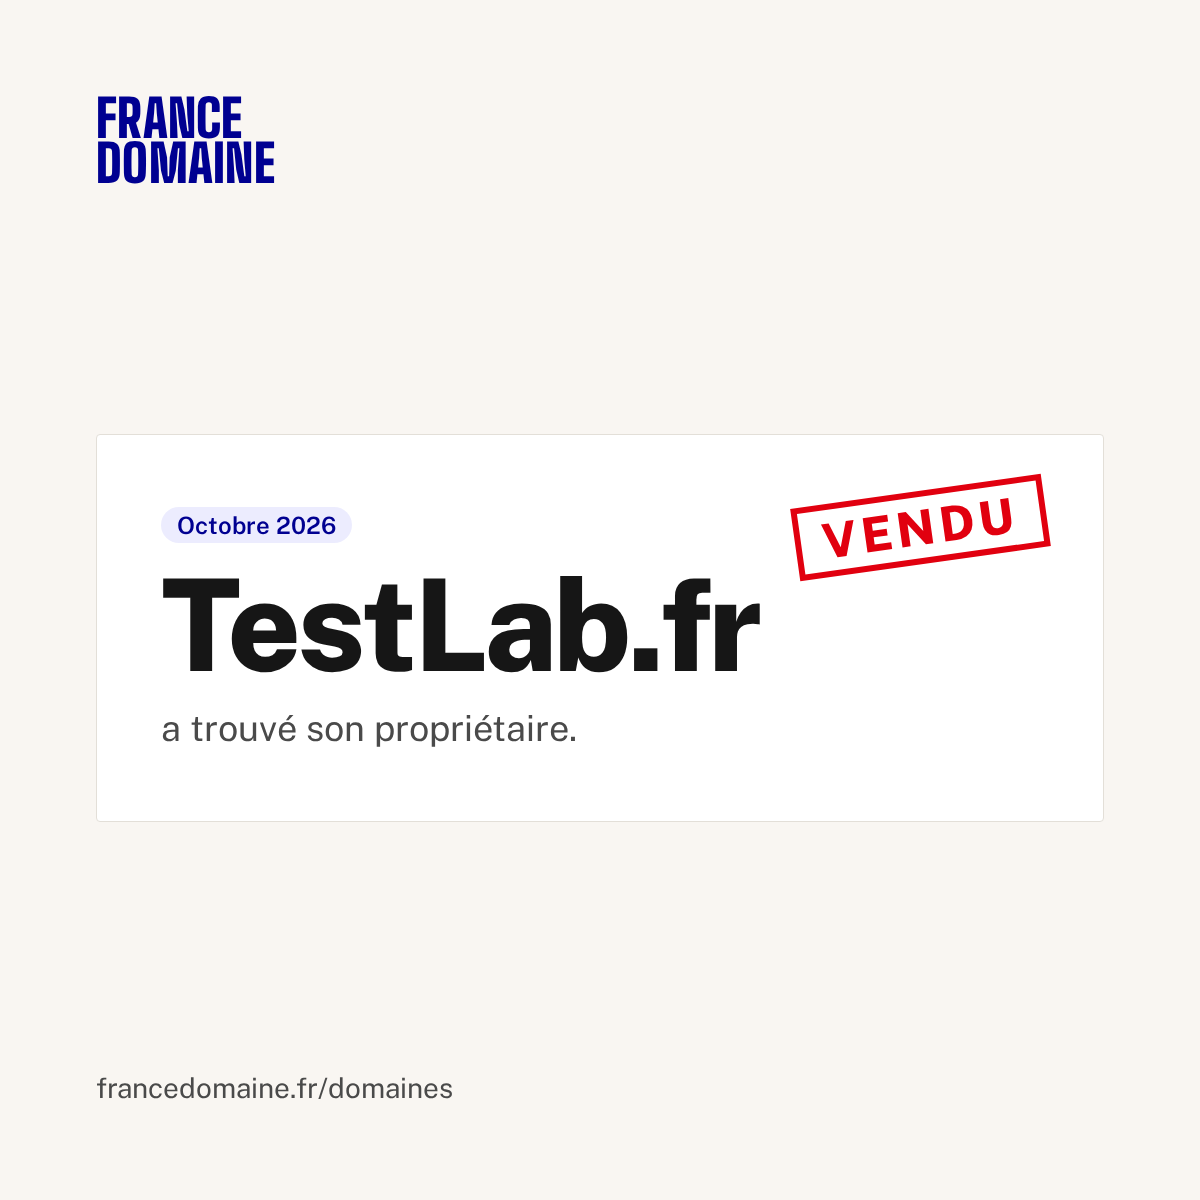
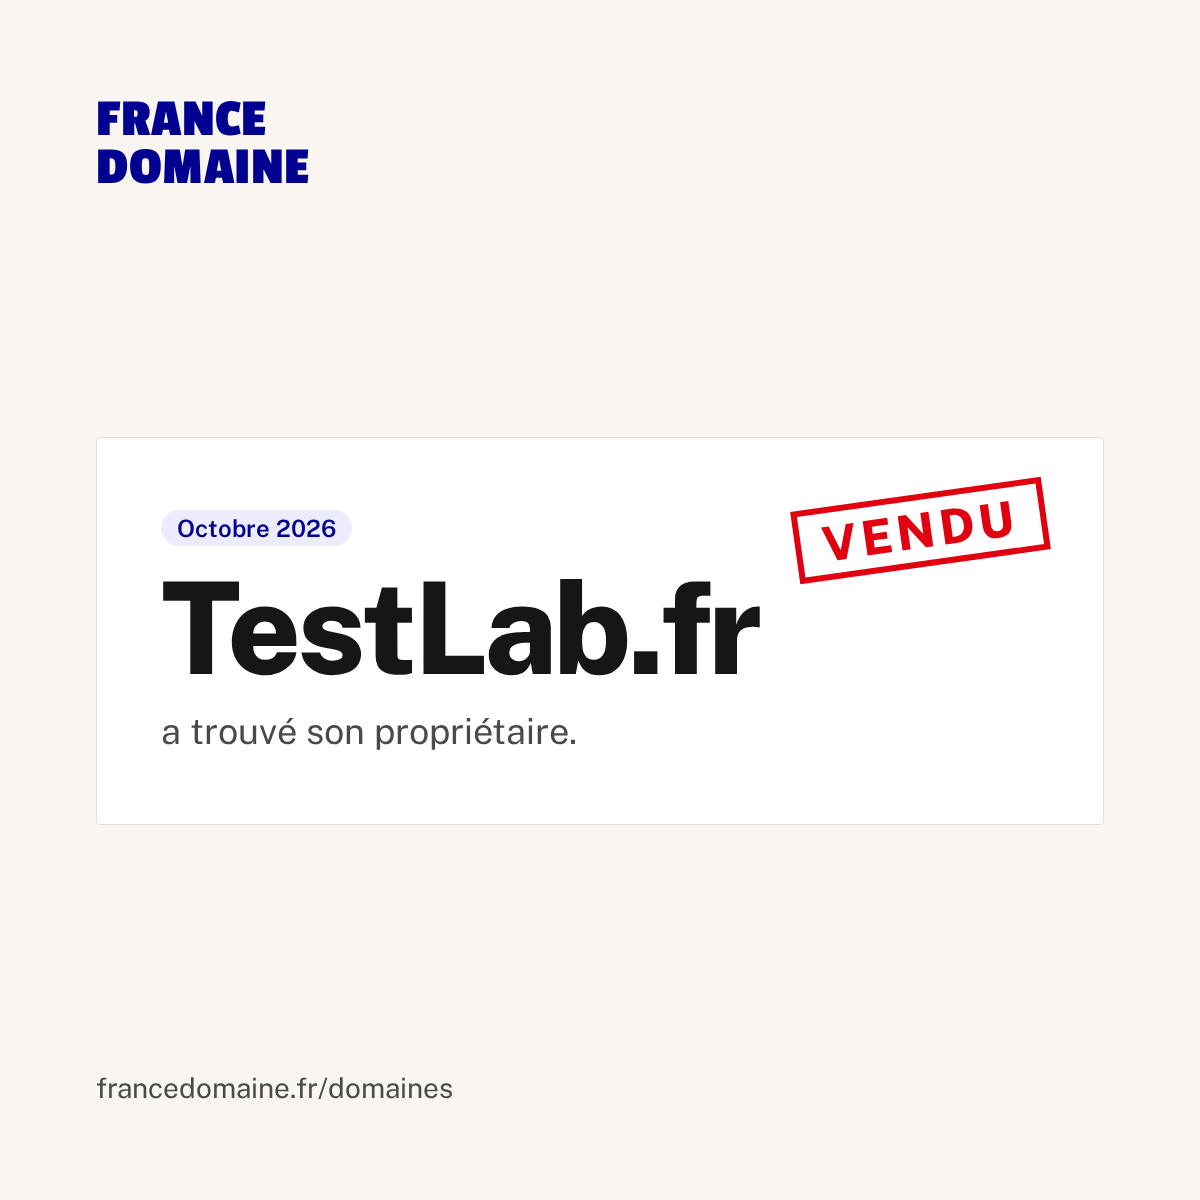
LinkedIn kit v5: original wordmark font (Passion One), no flag [skip ci]
Claude-Session: https://claude.ai/code/session_01WBZkLG8fGtU9TfrKQ81AZT

diff --git a/design-direction.md b/design-direction.md
@@ -28,7 +28,8 @@ Brief for the brand and every build (site + LinkedIn). Decisions are Franck's, w
 
 - Logo option 1 (white ".fr" on a blue square) rejected. Franck: "LOGO is OFF, that's not the point! Keep FRANCE over DOMAINE like the original one, no logo of flag, just a clean font".
 - Logo v2 (Public Sans 800, FRANCE letter-spaced to DOMAINE's width) rejected: "font is booooriiiiing, why extra space, that's horrible".
-- Logo now: FRANCE over DOMAINE in Big Shoulders Display 900 (Google Fonts, heavy condensed, like the original), Bleu France, natural spacing, left-aligned. Waits for Franck: keep / next.
+- Big Shoulders Display tried, then Franck: "keep the old logo, same font, no flag".
+- Logo now (2026-11-06): the original wordmark without the flag mark: FRANCE over DOMAINE, Passion One 700 (Google Fonts; closest match to the original logo's font, compared side by side with 7 others), Bleu France #000091, left-aligned.
 - Banner text (Franck's words): "Votre marque mérite le nom de domaine parfait." with "parfait" underlined in Rouge Marianne, on 2 lines, right-aligned (Franck: "on 2 lines, justify right"). Paper ground, nothing else: Franck: "delete cards, busy and unreadable, same with 'Noms courts etc.'".
 - Copy rule (Franck 2026-11-06): **never "domaine" for "nom de domaine"**: "NEVER use Domaine for Nom de Domaine, 2 different things in French". Always "nom de domaine" / "noms de domaine" (the brand "France Domaine" is a name, not this word). The live site breaks it in many places (Header "Domaines", Steps, Catalog, home.ts "Pourquoi le bon domaine change tout"): fixed in the copy rewrite that waits for Franck's text.
 - Copy rules: names "don't have to be short, remove that" (never sell on shortness). Franck: "just wait, all copy is wrong lol": all page copy waits for Franck's text.
